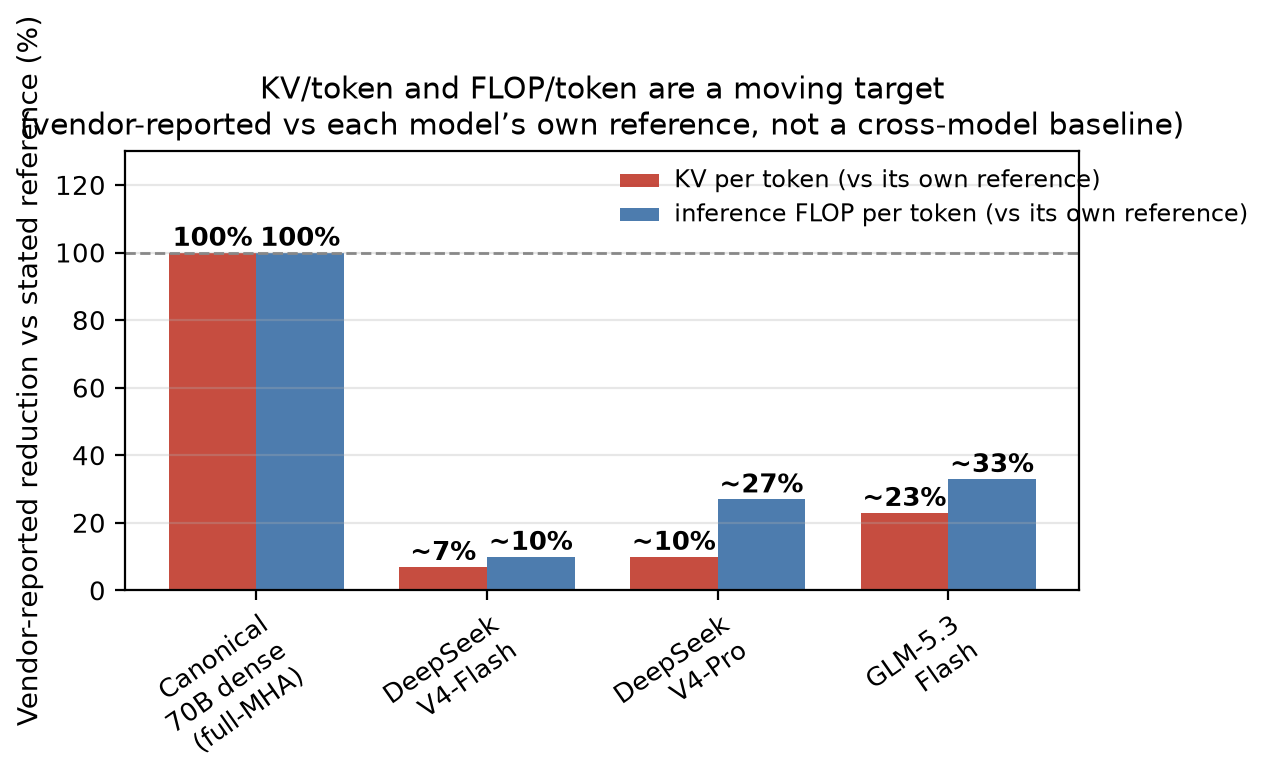
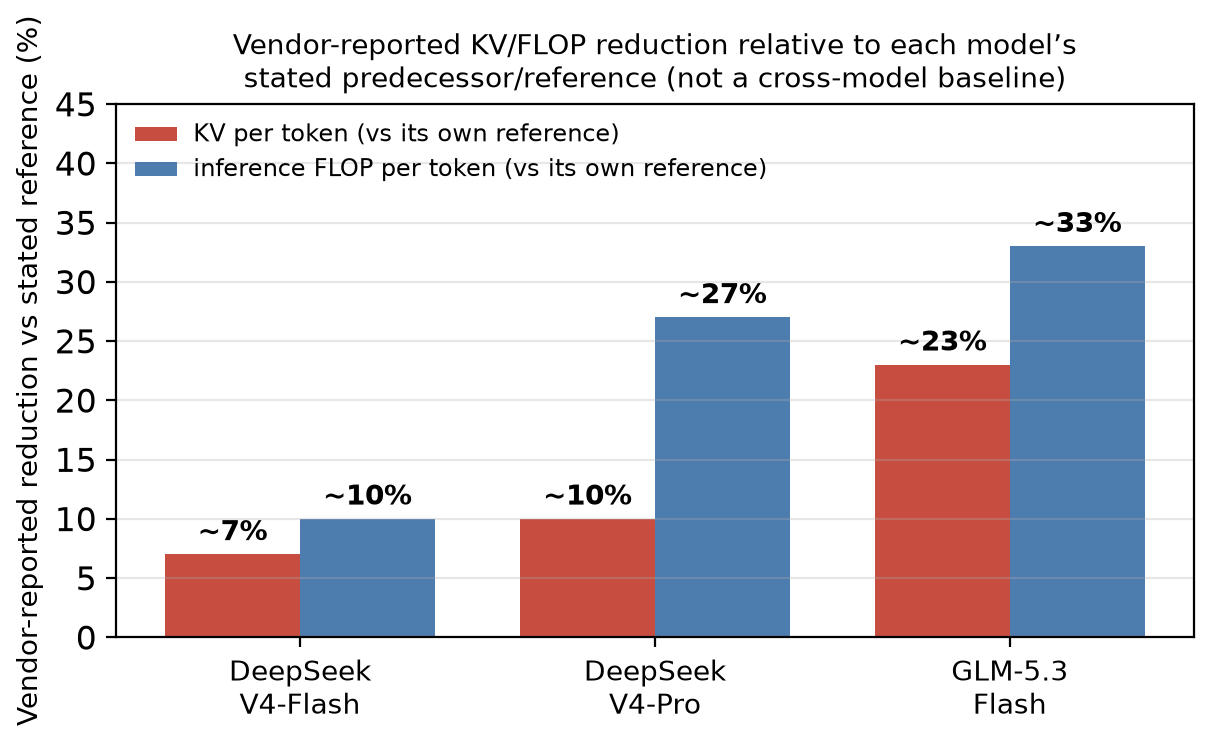
Redesign Fig A.2 (vendor-only bars, no canonical-100% denom, callout framing); Preface HBM/VRAM/GPU-memory wording; soften Appendix superlatives (sharpest/ultimatemost novel/first -> vendor-attributed interpretation)

diff --git a/render/fig_ch27_norm.py b/render/fig_ch27_norm.py
@@ -4,15 +4,14 @@ import matplotlib.pyplot as plt
 import numpy as np
 
 # ---- fig-27-2704: vendor-reported KV/token and FLOP/token reductions ----
-# HONEST normalisation: the percentages are each model's vendor-reported ratio
-# of its *own* stated reference (e.g. DeepSeek V4 vs V3.2), NOT a cross-model
-# percentage of a canonical 70B dense full-MHA.  We therefore do NOT label the
-# y-axis "% of canonical 70B" (that would be an invalid normalisation bridge).
-# Instead each bar is labelled against its stated reference, and the canonical
-# 70B full-MHA bar (100%) is shown only as the book's teaching floor for scale.
-models = ['Canonical\n70B dense\n(full-MHA)', 'DeepSeek\nV4-Flash', 'DeepSeek\nV4-Pro', 'GLM-5.3\nFlash']
-kv = [100, 7, 10, 23]     # vendor-reported KV vs own reference
-flop = [100, 10, 27, 33]  # vendor-reported FLOP vs own reference
+# The percentages are each model's vendor-reported ratio of its OWN stated
+# reference (e.g. DeepSeek V4 vs V3.2), so they are NOT comparable across a
+# shared y-axis with a canonical 70B baseline.  We therefore show ONLY the
+# vendor models here, and move the canonical 70B dense full-MHA teaching model
+# into a separate callout text (not a bar on the same axis).
+models = ['DeepSeek\nV4-Flash', 'DeepSeek\nV4-Pro', 'GLM-5.3\nFlash']
+kv = [7, 10, 23]     # vendor-reported KV vs own reference
+flop = [10, 27, 33]  # vendor-reported FLOP vs own reference
 
 x = np.arange(len(models))
 w = 0.38
@@ -21,20 +20,17 @@ b1 = ax.bar(x - w/2, kv, w, label='KV per token (vs its own reference)', color='
 b2 = ax.bar(x + w/2, flop, w, label='inference FLOP per token (vs its own reference)', color='#3a6ea5', alpha=0.9)
 for bars in (b1, b2):
     for r in bars:
-        lab = '100%' if abs(r.get_height()-100) < 1 else f'~{int(r.get_height())}%'
-        ax.text(r.get_x() + r.get_width()/2, r.get_height() + 2, lab,
-                ha='center', fontsize=7.5, fontweight='bold')
+        ax.text(r.get_x() + r.get_width()/2, r.get_height() + 1.2, f'~{int(r.get_height())}%',
+                ha='center', fontsize=8.5, fontweight='bold')
 ax.set_xticks(x)
-ax.set_xticklabels(models, fontsize=7.5)
-ax.set_ylabel('Vendor-reported reduction vs stated reference (%)', fontsize=8)
-ax.set_ylim(0, 130)
-ax.set_title('KV/token and FLOP/token are a moving target\n(vendor-reported vs each model\u2019s own reference, not a cross-model baseline)', fontsize=8.5)
-ax.legend(fontsize=7, loc='upper center', bbox_to_anchor=(0.5, 1.0), ncol=1, frameon=False)
+ax.set_xticklabels(models, fontsize=8.5)
+ax.set_ylabel('Vendor-reported reduction vs stated reference (%)', fontsize=8.5)
+ax.set_ylim(0, 45)
+ax.set_title('Vendor-reported KV/FLOP reduction relative to each model\u2019s\nstated predecessor/reference (not a cross-model baseline)', fontsize=8.5)
+ax.legend(fontsize=7.5, loc='upper right', ncol=1, frameon=False)
 ax.grid(axis='y', alpha=0.3)
-ax.axhline(100, color='#888', ls='--', lw=1)
-ax.tick_params(labelsize=7.5)
 plt.tight_layout()
 plt.savefig('design/manuscript/chapter-27/figures/fig-27-2704.png',
             dpi=200, bbox_inches='tight', pad_inches=0.08)
 plt.close()
-print('wrote fig-27-2704 (honest per-model reference labels)')
+print('wrote fig-27-2704 (vendor-only, no canonical-100% bar)')

diff --git a/render/latex/preface.tex b/render/latex/preface.tex
@@ -135,14 +135,15 @@ part of the discipline, not an appendix.
 
 Three conventions keep the book consistent and honest about its own limits.
 
-\textbf{Terminology.} A few nouns are used as synonyms for readability: HBM,
-VRAM and GPU memory name the same physical resource; TTFT,
-time-to-first-token and prefill latency likewise; RAG and
-retrieval-augmented-\-generation are the same. Where a distinction is
-architecturally load-bearing --- prefill versus decode, total versus active
-parameters, model capacity versus system capacity --- the book holds it
-sharply. Synonyms are a readability concession; load-bearing contrasts are
-never relaxed (Ch.~2, 8, 17).
+\textbf{Terminology.} For the capacity arithmetic in this handbook, GPU
+memory and VRAM are used generically for accelerator-local memory; HBM refers
+specifically to high-bandwidth-memory implementations, which is what the
+worked examples assume. TTFT, time-to-first-token and prefill latency
+likewise; RAG and retrieval-augmented-generation are the same. Where a
+distinction is architecturally load-bearing --- prefill versus decode, total
+versus active parameters, model capacity versus system capacity --- the book
+holds it sharply. Synonyms are a readability concession; load-bearing
+contrasts are never relaxed (Ch.~2, 8, 17).
 
 \textbf{Hardware is a generic stand-in.} The worked arithmetic is anchored to
 concrete constants (e.g. an 8\texttimes H100 host at roughly 1 PFLOPS FP16

diff --git a/design/manuscript/chapter-27/chapter-27.md b/design/manuscript/chapter-27/chapter-27.md
@@ -34,31 +34,31 @@ When we write "Four independent labs converged" or "MoE is arguably a larger arc
 
 **Decisive fact [1P: arXiv 2606.19348; HF deepseek-ai/DeepSeek-V4-Pro]:** V4-Pro is 1.6 T total / 49 B activated, V4-Flash 284 B / 13 B activated, both 1M-token context, MIT-licensed. Its hybrid attention combines Compressed Sparse Attention (CSA) and Heavily Compressed Attention (HCA). At 1M context, DeepSeek reports **~27% (Pro) / ~10% (Flash) of V3.2's single-token inference FLOPs and ~10% / ~7% of its KV cache**.
 
-**What this means for the architect (ties to Ch7 Memory, Ch8 Compute).** This is the sharpest confirmation yet that *KV-per-token is a moving target*. Chapter 7's arithmetic (per-token × context) is a floor for a given architecture; DeepSeek shows the *constant factor itself* can be cut ~10× without changing the model's parameter count. The architectural decision shifts from "how much KV memory does this context need?" to "which KV scheme does this model use, and is its vendor-published saving reproducible on my serving stack?"
+**What this means for the architect (ties to Ch7 Memory, Ch8 Compute).** In our reading of the vendor reports, this is a strong confirmation that *KV-per-token is a moving target*. Chapter 7's arithmetic (per-token × context) is a floor for a given architecture; DeepSeek shows the *constant factor itself* can be cut ~10× without changing the model's parameter count. The architectural decision shifts from "how much KV memory does this context need?" to "which KV scheme does this model use, and is its vendor-published saving reproducible on my serving stack?"
 
-## 2. Kimi K3 — The First Open 3T-Class Model, and the MoE-Sparsity Extreme
+## 2. Kimi K3 — Vendor-Reported First Open 3T-Class Model, and the MoE-Sparsity Extreme
 
-**Decisive fact [1P: arXiv 2607.24653; HF moonshotai/Kimi-K3]:** 2.8 T total / 104 B activated, native vision, 1M context. Built on **Kimi Delta Attention (KDA)** + **Attention Residuals (AttnRes)**, with **Stable LatentMoE** activating just **16 of 896 routed experts** per token. Claims ~**2.5× scaling efficiency** over Kimi K2. Weights are QAT-trained from SFT onward with **MXFP4 weights / MXFP8 activations**. Full weights are released — the first open 3T-class model.
+**Decisive fact [1P: arXiv 2607.24653; HF moonshotai/Kimi-K3]:** 2.8 T total / 104 B activated, native vision, 1M context. Built on **Kimi Delta Attention (KDA)** + **Attention Residuals (AttnRes)**, with **Stable LatentMoE** activating just **16 of 896 routed experts** per token. Claims ~**2.5× scaling efficiency** over Kimi K2. Weights are QAT-trained from SFT onward with **MXFP4 weights / MXFP8 activations**. Full weights are released — per the vendor, the first open 3T-class model.
 
-**What this means for the architect (ties to Ch3 Model, Ch10 Parallelism).** A model whose *total* size is 2.8 T but whose *activated* footprint is 104 B is the ultimate demonstration of Ch3's total-vs-activated distinction and Ch10's expert-parallelism doctrine. Serving it is not "2.8 T is too big to fit" — it is "fit and feed 104 B active, plus the KV for our context, while sharding and scheduling the expert fabric." The decision surface is expert-parallel communication and fused cross-expert kernels, not raw capacity.
+**What this means for the architect (ties to Ch3 Model, Ch10 Parallelism).** A model whose *total* size is 2.8 T but whose *activated* footprint is 104 B is a clear illustration of Ch3's total-vs-activated distinction and Ch10's expert-parallelism doctrine. Serving it is not "2.8 T is too big to fit" — it is "fit and feed 104 B active, plus the KV for our context, while sharding and scheduling the expert fabric." The decision surface is expert-parallel communication and fused cross-expert kernels, not raw capacity.
 
 ## 3. Qwen3.8-Flash-Next — The Qwen4 Architecture Preview, Prioritizing Cost-Performance
 
 **Decisive fact [1P: HF Qwen/Qwen3.8-Flash-Next; GitHub QwenLM/Qwen3.8-Flash-Next]:** 125 B total / 6 B activated, plus a separate 51 B of **N-gram embedding** parameters (offloadable to host memory). Native 262 K context (YaRN to 1M). **Hybrid attention: Gated DeltaNet (GDN) + Qwen Sparse Attention (QSA)**, where QSA operates at the *micro-block* level; **Gated Residual** widens the residual stream; 512 MoE experts (10 routed + 1 shared per token); Muon + AdamW. Reported training cost ~1/9 of Qwen3.7-Plus.
 
-**What this means for the architect (ties to Ch3, Ch5 Model Selection, Ch16 TCO).** Qwen's N-gram embedding split is the most architecturally novel item: it shows that *parameter scaling and compute scaling can be decoupled* — a large embedding table can trade host-RAM bandwidth for on-GPU capacity when the compute budget is the binding constraint. This refines the model-selection calculus in Ch5: an architect comparing candidates now weighs not just total/active params but heterogeneous memory (on-GPU weights vs offloadable embeddings) and its serving overlap.
+**What this means for the architect (ties to Ch3, Ch5 Model Selection, Ch16 TCO).** Qwen's N-gram embedding split is, in our reading, the most architecturally novel item: it shows that *parameter scaling and compute scaling can be decoupled* — a large embedding table can trade host-RAM bandwidth for on-GPU capacity when the compute budget is the binding constraint. This refines the model-selection calculus in Ch5: an architect comparing candidates now weighs not just total/active params but heterogeneous memory (on-GPU weights vs offloadable embeddings) and its serving overlap.
 
-## 4. GLM-5.3-Flash — First Natively Multimodal GLM, Efficiency-Branded
+## 4. GLM-5.3-Flash — Vendor-Reported First Natively Multimodal GLM, Efficiency-Branded
 
-**Decisive fact [1P: HF zai-org/GLM-5.3-Flash; arXiv 2602.15763]:** 320 B total / 18 B activated, 1M native context, 131 K output. First natively multimodal model in the GLM-5 series (text/image/video). Hybrid **sparse+linear attention** (first in the series) with ~3× attention-compute and ~4.4×KV-cache reductions; Manifold-Constrained Hyper-Connections (mHC); W8A8 quantization with mixed-cache (INT8/FP8/BF16); Encode-Prefill-Decode serving. MIT weights. Z.ai positions it as approaching Claude Opus 4.8 on coding/agentic at ~1/10 the price.
+**Decisive fact [1P: HF zai-org/GLM-5.3-Flash; arXiv 2602.15763]:** 320 B total / 18 B activated, 1M native context, 131 K output. Per the vendor, the first natively multimodal model in the GLM-5 series (text/image/video). Hybrid **sparse+linear attention** (first in the series per the vendor) with ~3× attention-compute and ~4.4×KV-cache reductions; Manifold-Constrained Hyper-Connections (mHC); W8A8 quantization with mixed-cache (INT8/FP8/BF16); Encode-Prefill-Decode serving. MIT weights. Z.ai positions it as approaching Claude Opus 4.8 on coding/agentic at ~1/10 the price.
 
 **What this means for the architect (ties to Ch7 Memory, Ch8 Compute, Ch19 Agentic).** GLM's coupling of hybrid attention with *native multimodality* shows the model border is remaking: "LLM" and "vision/audio model" are converging in a single weight set, which changes workload characterization (Ch4) — a multimodal prompt has a different token/KV profile than text-only. And mHC + attention-mixing being reported as *scaling-efficiency* results reinforces Ch8's point that compute arithmetic is architecture-specific, not universal.
 
 ## 5. What This Means for the Handbook's Canonical Arithmetic
 
-![Fig A.2 — The KV constant and FLOP/token are a moving target: hybrid attention cuts both at the mechanism. A canonical 70B dense full-MHA is shown at 100% for scale; the frontier percentages are each model's vendor-reported reduction versus its own stated reference (e.g. DeepSeek V4 vs V3.2), not a cross-model percentage of the canonical 70B [DERIVED from 1P claims: arXiv 2606.19348; HF zai-org]](figures/fig-27-2704.png)
+![Fig A.2 — Vendor-reported KV/FLOP reduction relative to each model's stated predecessor/reference, not a cross-model baseline [DERIVED from 1P claims: arXiv 2606.19348; HF zai-org]](figures/fig-27-2704.png)
 
-*Same message as Fig 7.1's GQA line, taken to the frontier: the per-token KV and FLOP "constants" of Chapter 7/8 are not universal — they are the canonical full-MHA conservative upper-bound teaching model, which hybrid attention re-architects down at the mechanism. The frontier percentages are each model's vendor-reported ratio of its own stated reference (e.g. DeepSeek V4 vs V3.2), NOT a cross-model percentage of the canonical 70B — the canonical 100% bar is shown only as the book's teaching floor for scale. An architect who re-derives them per candidate model avoids both over- (sizing a 7% KV model as if it were 100%) and under-provisioning. Values are vendor-published [1P], not yet independently reprofiled on a serving stack (see §5).*
+*Same message as Fig 7.1's GQA line, taken to the frontier: the per-token KV and FLOP "constants" of Chapter 7/8 are not universal — they are the canonical full-MHA conservative upper-bound teaching model, which hybrid attention re-architects down at the mechanism. The bars are each model's vendor-reported ratio of its own stated reference (e.g. DeepSeek V4 vs V3.2); they do not share a common denominator, so they must not be read as percentages of a single baseline. The canonical 70B dense full-MHA model is the book's teaching floor, not the denominator for these percentages. An architect who re-derives them per candidate model avoids both over- (sizing a 7% KV model as if it were 100%) and under-provisioning. Values are vendor-published [1P], not yet independently reprofiled on a serving stack (see §5).*
 
 The book's canonical scenario is a 70B dense FP16, ~9.2K-token RAG workload on 8×H100. The 2026 frontier does not invalidate it — it *refines* the interpretation an architect should carry:
 
